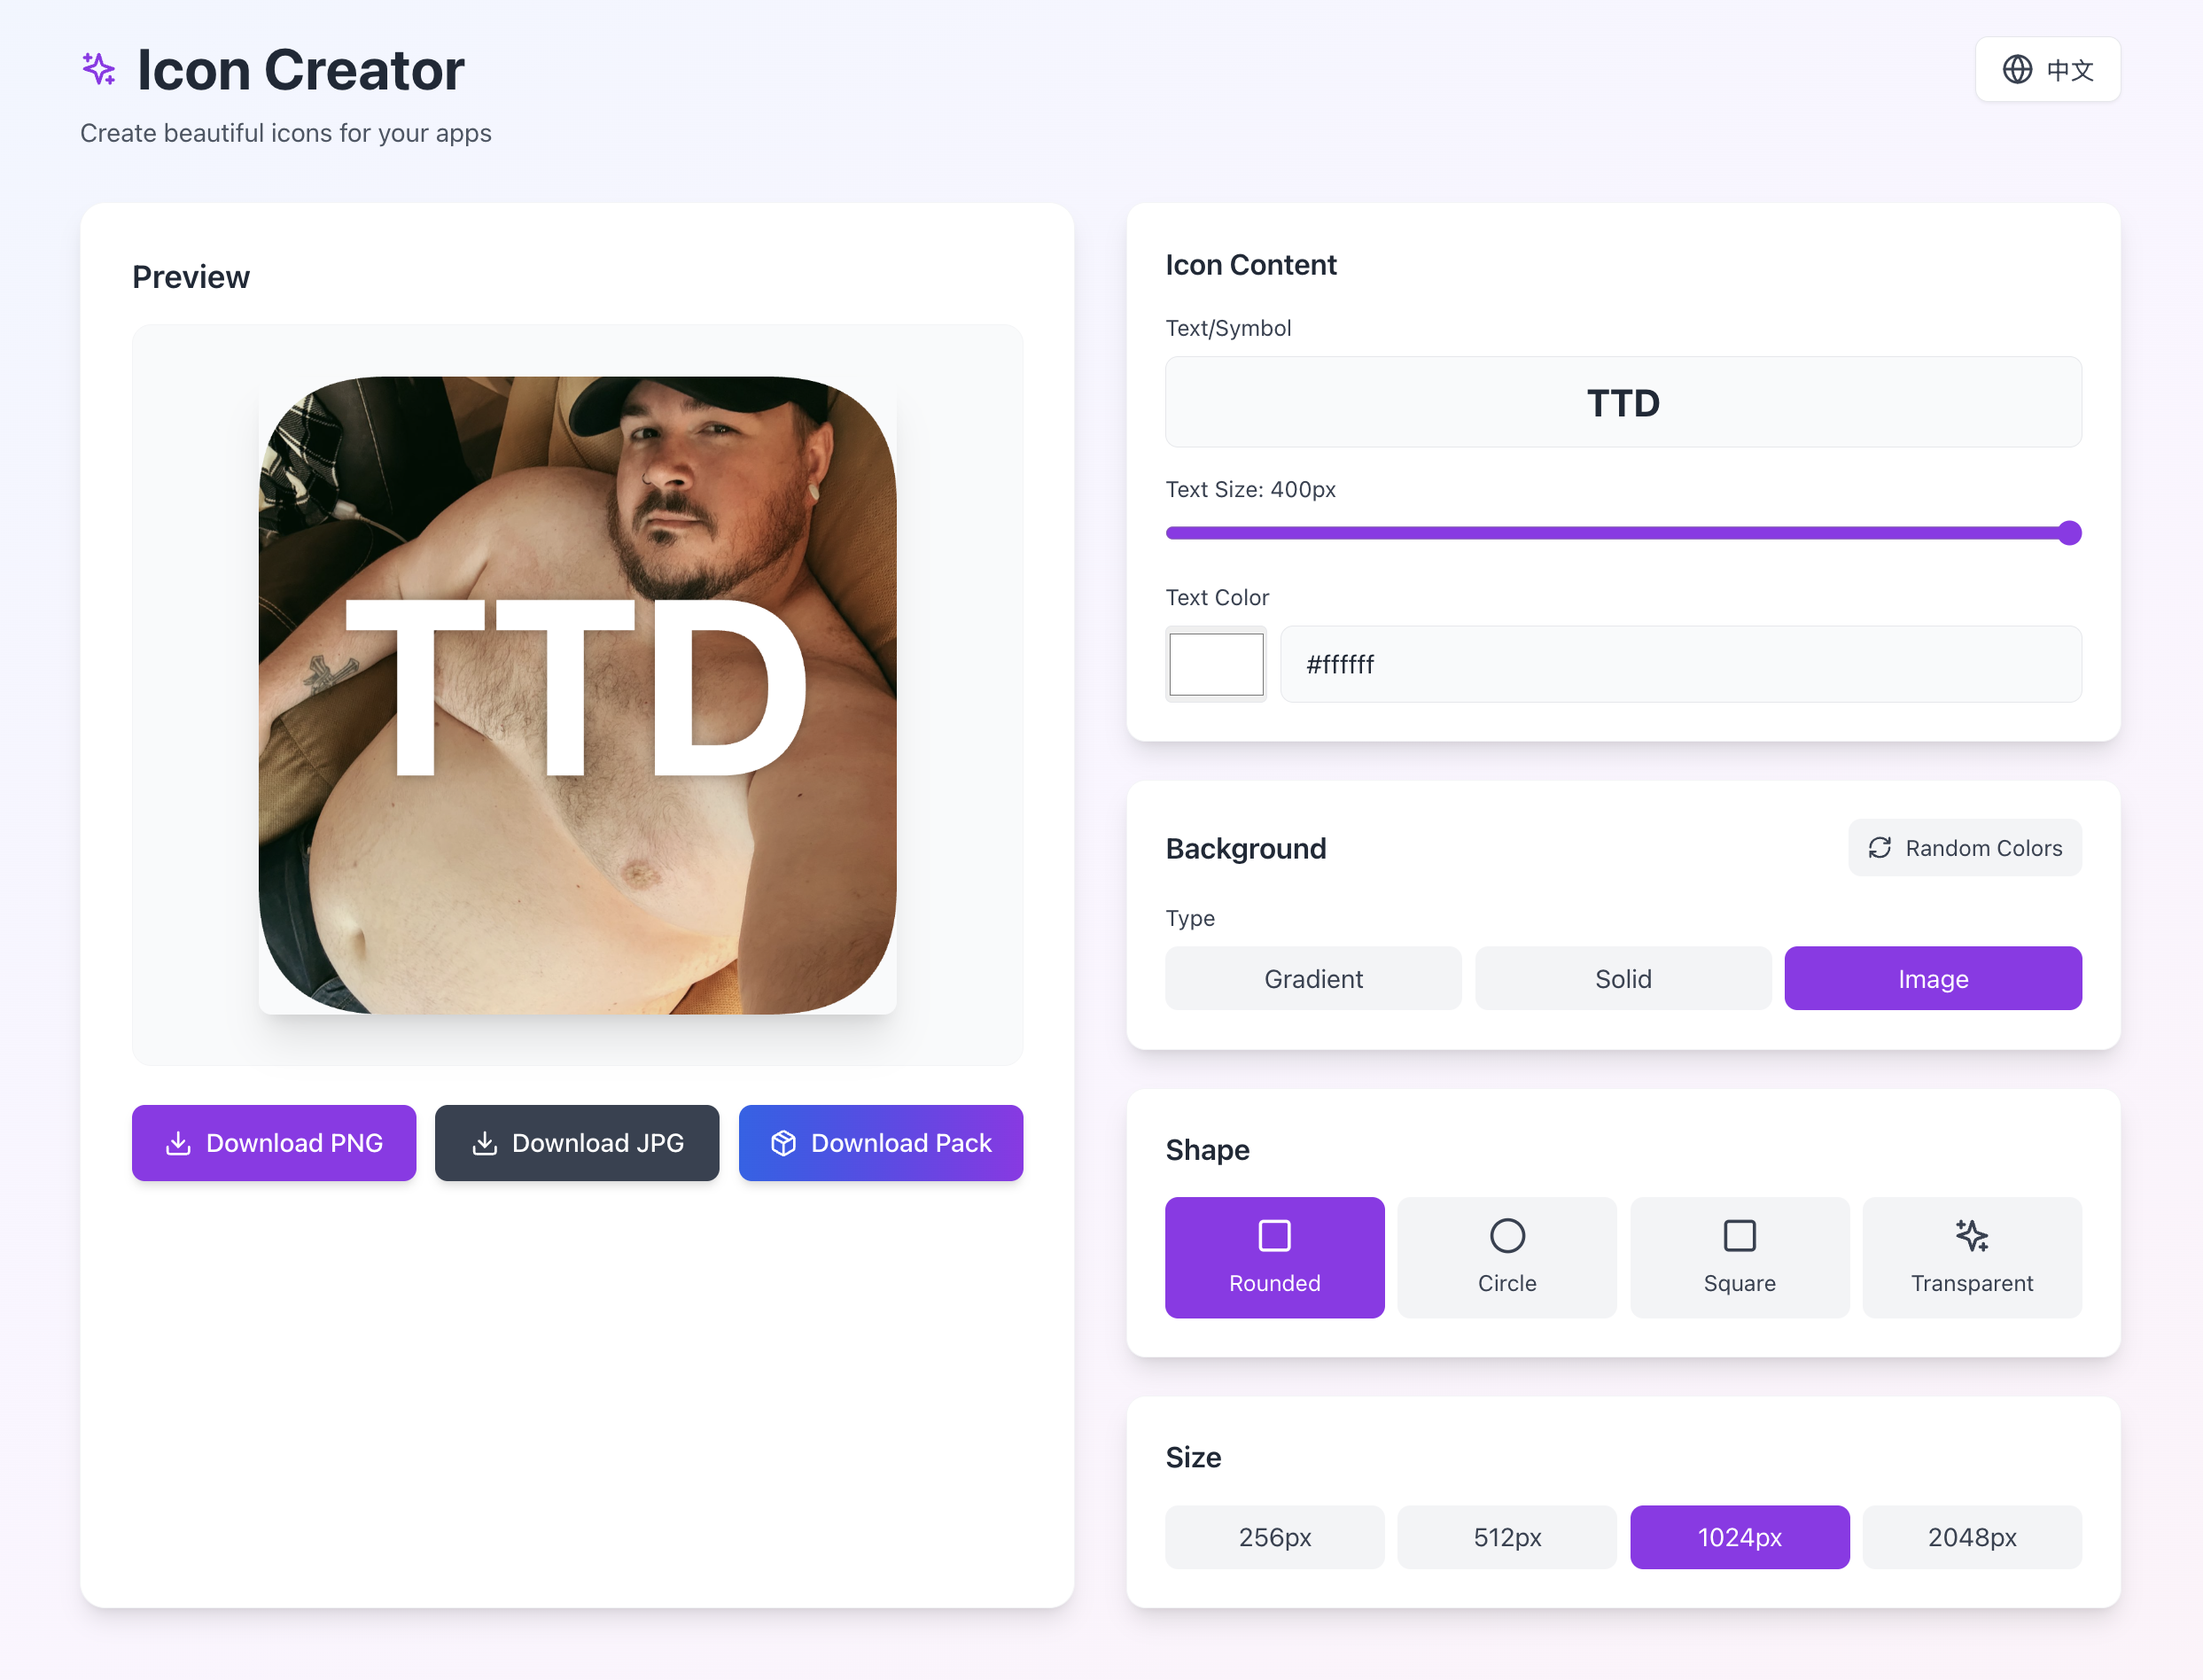
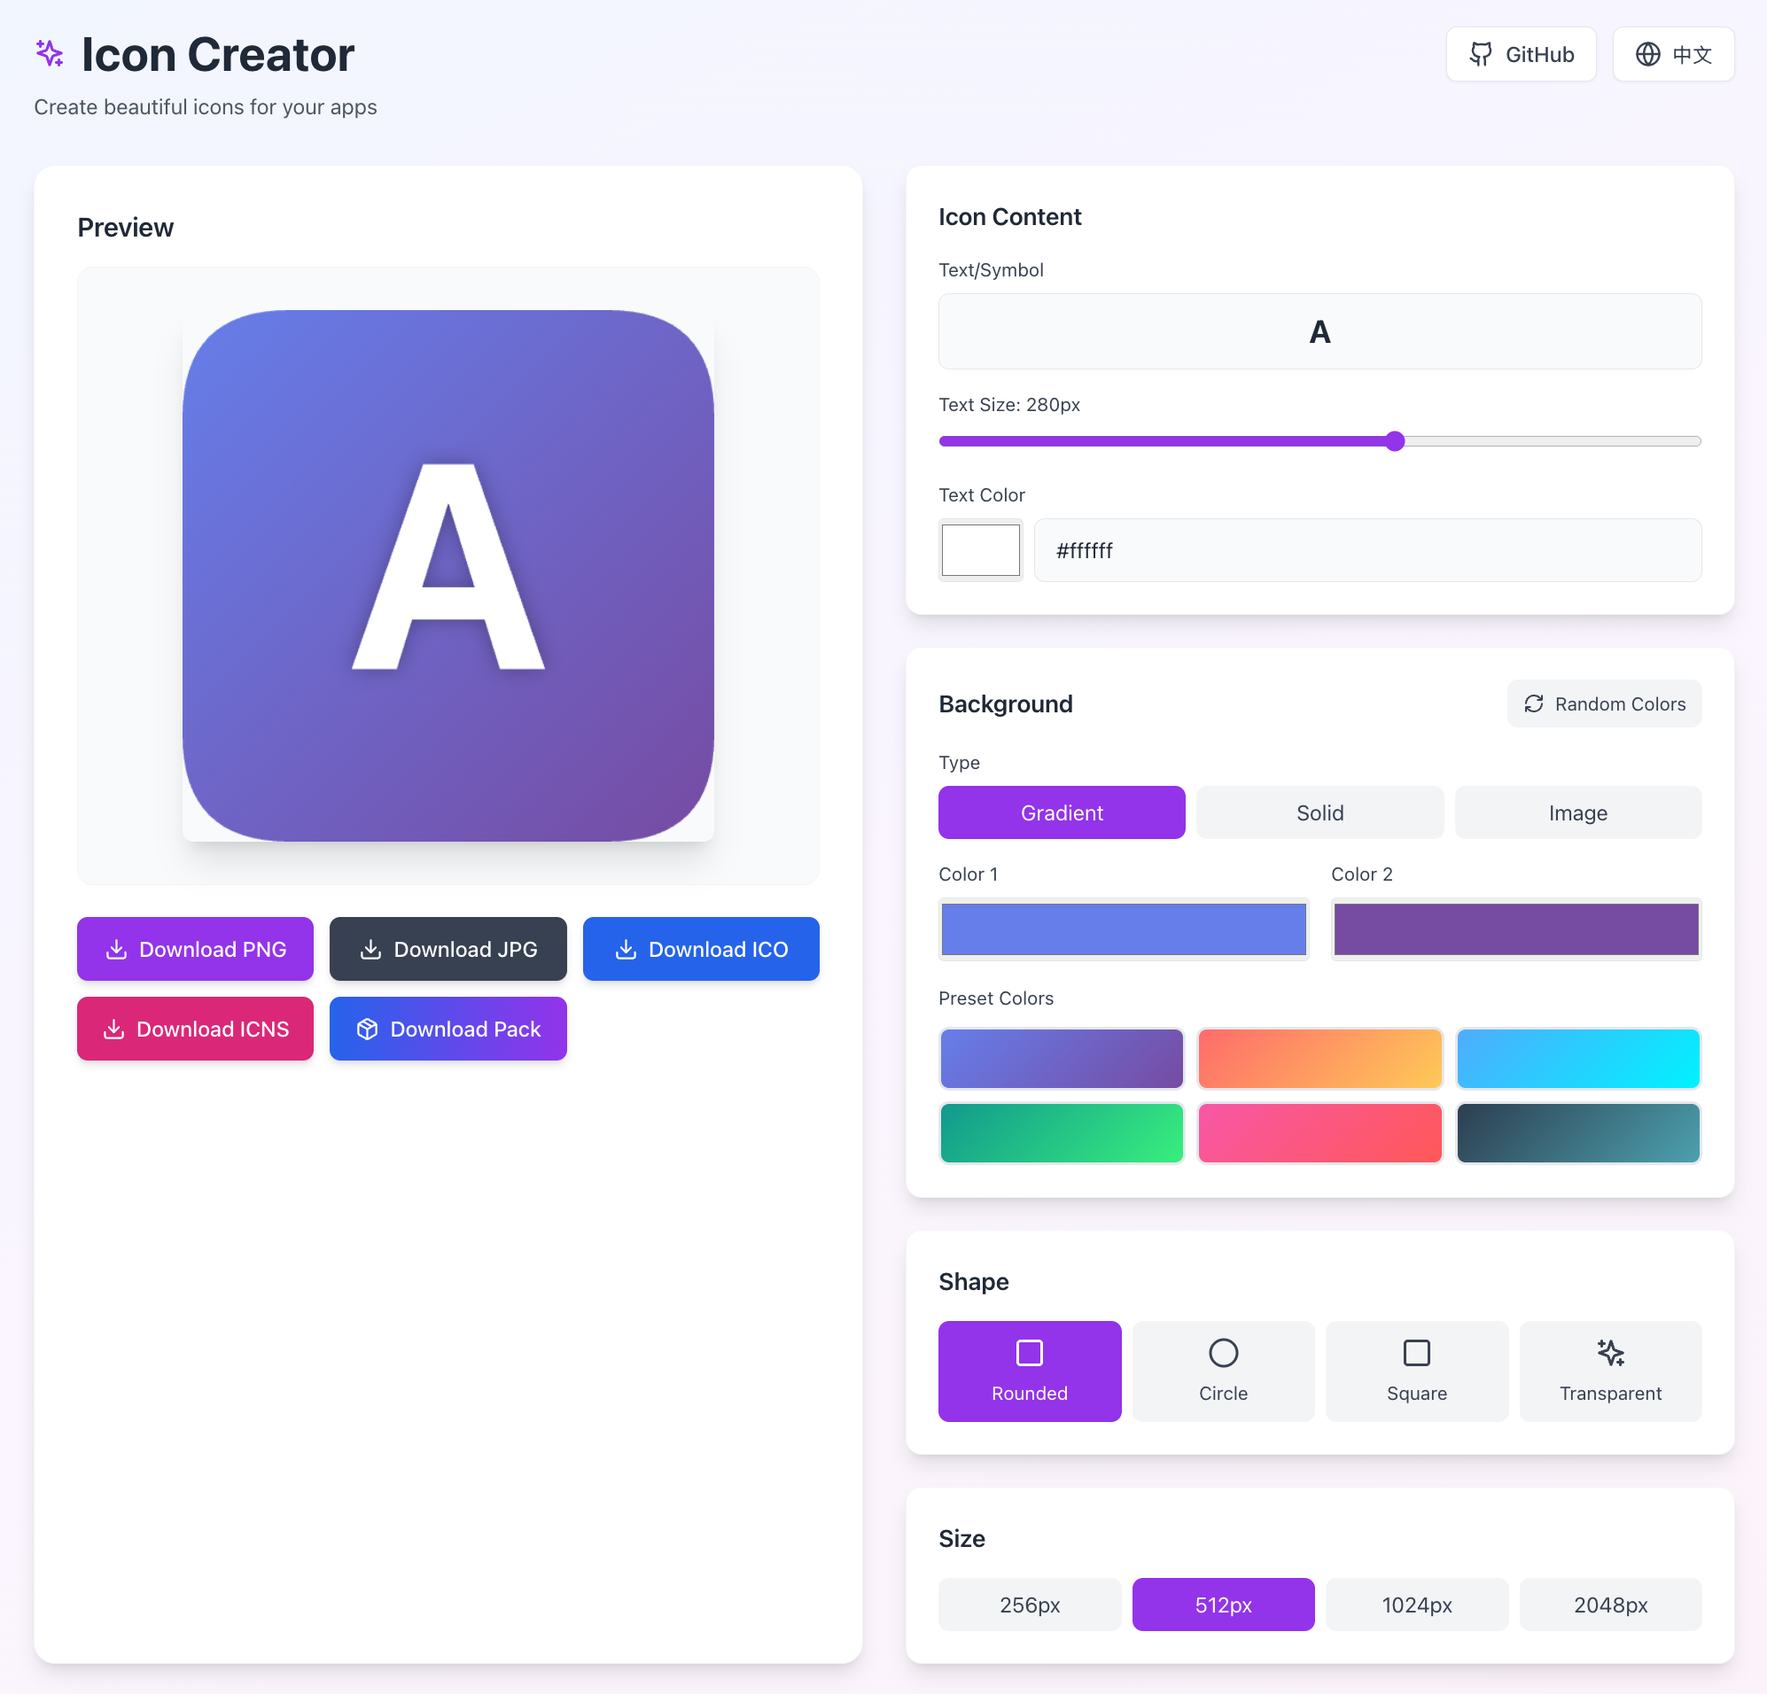
feat: Add GitHub project link

diff --git a/src/App.jsx b/src/App.jsx
@@ -1,5 +1,5 @@
 import React, { useState, useRef, useEffect } from 'react';
-import { Download, Square, Circle, Sparkles, RefreshCw, Package, Globe } from 'lucide-react';
+import { Download, Square, Circle, Sparkles, RefreshCw, Package, Globe, Github } from 'lucide-react';
 
 export default function IconCreator() {
   const canvasRef = useRef(null);
@@ -117,7 +117,7 @@ export default function IconCreator() {
         const img = new Image();
         img.onload = () => {
           setBgImage(img);
-          setConfig({...config, bgType: 'image'});
+          setConfig({ ...config, bgType: 'image' });
         };
         img.src = event.target.result;
       };
@@ -128,10 +128,10 @@ export default function IconCreator() {
   const drawIcon = () => {
     const canvas = canvasRef.current;
     if (!canvas) return;
-    
+
     const ctx = canvas.getContext('2d');
     const size = config.size;
-    
+
     canvas.width = size;
     canvas.height = size;
 
@@ -194,17 +194,17 @@ export default function IconCreator() {
     ctx.textBaseline = 'middle';
     ctx.fillStyle = config.textColor;
     ctx.font = `bold ${config.fontSize}px -apple-system, BlinkMacSystemFont, "Segoe UI", sans-serif`;
-    
+
     ctx.shadowBlur = config.shadowBlur;
     ctx.shadowColor = config.shadowColor;
-    
+
     ctx.fillText(config.text, size / 2, size / 2);
   };
 
   const downloadIcon = (format = 'png') => {
     const canvas = canvasRef.current;
     if (!canvas) return;
-    
+
     canvas.toBlob((blob) => {
       if (!blob) return;
       const url = URL.createObjectURL(blob);
@@ -287,7 +287,7 @@ export default function IconCreator() {
 
       const buffer = await blob.arrayBuffer();
       const length = 8 + buffer.byteLength;
-      
+
       const blockHeader = new ArrayBuffer(8);
       const headerView = new DataView(blockHeader);
       for (let i = 0; i < 4; i++) {
@@ -350,7 +350,7 @@ export default function IconCreator() {
     return new Promise((resolve) => {
       const tempCanvas = document.createElement('canvas');
       const ctx = tempCanvas.getContext('2d');
-      
+
       tempCanvas.width = size;
       tempCanvas.height = size;
 
@@ -408,11 +408,11 @@ export default function IconCreator() {
       ctx.textBaseline = 'middle';
       ctx.fillStyle = config.textColor;
       ctx.font = `bold ${fontSize}px -apple-system, BlinkMacSystemFont, "Segoe UI", sans-serif`;
-      
+
       const shadowBlur = (size / config.size) * config.shadowBlur;
       ctx.shadowBlur = shadowBlur;
       ctx.shadowColor = config.shadowColor;
-      
+
       ctx.fillText(config.text, size / 2, size / 2);
 
       tempCanvas.toBlob((blob) => {
@@ -424,14 +424,14 @@ export default function IconCreator() {
   const downloadIconPack = async () => {
     const sizes = [16, 48, 128];
     const JSZip = window.JSZip;
-    
+
     if (!JSZip) {
       alert('Loading compression library, please try again...');
       return;
     }
 
     const zip = new JSZip();
-    
+
     for (const size of sizes) {
       const blob = await generateIconAtSize(size);
       zip.file(`icon${size}.png`, blob);
@@ -468,13 +468,24 @@ export default function IconCreator() {
             </h1>
             <p className="text-gray-600">{t.subtitle}</p>
           </div>
-          <button
-            onClick={() => setLang(lang === 'zh' ? 'en' : 'zh')}
-            className="flex items-center gap-2 bg-white hover:bg-gray-50 px-4 py-2 rounded-lg shadow-sm border border-gray-200 transition text-gray-700"
-          >
-            <Globe size={20} />
-            {lang === 'zh' ? 'EN' : '中文'}
-          </button>
+          <div className="flex items-center gap-3">
+            <a
+              href="https://github.com/i0Ek3/icon-creator"
+              target="_blank"
+              rel="noopener noreferrer"
+              className="flex items-center gap-2 bg-white hover:bg-gray-50 px-4 py-2 rounded-lg shadow-sm border border-gray-200 transition text-gray-700 font-medium"
+            >
+              <Github size={20} />
+              <span className="hidden sm:inline">GitHub</span>
+            </a>
+            <button
+              onClick={() => setLang(lang === 'zh' ? 'en' : 'zh')}
+              className="flex items-center gap-2 bg-white hover:bg-gray-50 px-4 py-2 rounded-lg shadow-sm border border-gray-200 transition text-gray-700"
+            >
+              <Globe size={20} />
+              {lang === 'zh' ? 'EN' : '中文'}
+            </button>
+          </div>
         </header>
 
         <div className="grid lg:grid-cols-2 gap-8">
@@ -488,7 +499,7 @@ export default function IconCreator() {
                 style={{ width: '400px', height: '400px' }}
               />
             </div>
-            
+
             <div className="mt-6 grid grid-cols-3 gap-3">
               <button
                 onClick={() => downloadIcon('png')}
@@ -545,12 +556,12 @@ export default function IconCreator() {
                   <input
                     type="text"
                     value={config.text}
-                    onChange={(e) => setConfig({...config, text: e.target.value.slice(0, 3)})}
+                    onChange={(e) => setConfig({ ...config, text: e.target.value.slice(0, 3) })}
                     className="w-full bg-gray-50 border border-gray-200 rounded-lg px-4 py-3 text-2xl text-center font-bold text-gray-800 focus:outline-none focus:ring-2 focus:ring-purple-500"
                     maxLength={3}
                   />
                 </div>
-                
+
                 <div>
                   <label className="block text-sm mb-2 text-gray-700">{t.textSize}: {config.fontSize}px</label>
                   <input
@@ -558,7 +569,7 @@ export default function IconCreator() {
                     min="100"
                     max="400"
                     value={config.fontSize}
-                    onChange={(e) => setConfig({...config, fontSize: parseInt(e.target.value)})}
+                    onChange={(e) => setConfig({ ...config, fontSize: parseInt(e.target.value) })}
                     className="w-full accent-purple-600"
                   />
                 </div>
@@ -569,13 +580,13 @@ export default function IconCreator() {
                     <input
                       type="color"
                       value={config.textColor}
-                      onChange={(e) => setConfig({...config, textColor: e.target.value})}
+                      onChange={(e) => setConfig({ ...config, textColor: e.target.value })}
                       className="w-16 h-12 rounded cursor-pointer border border-gray-200"
                     />
                     <input
                       type="text"
                       value={config.textColor}
-                      onChange={(e) => setConfig({...config, textColor: e.target.value})}
+                      onChange={(e) => setConfig({ ...config, textColor: e.target.value })}
                       className="flex-1 bg-gray-50 border border-gray-200 rounded-lg px-4 py-2 text-gray-800 focus:outline-none focus:ring-2 focus:ring-purple-500"
                     />
                   </div>
@@ -595,32 +606,29 @@ export default function IconCreator() {
                   {t.randomColors}
                 </button>
               </div>
-              
+
               <div className="space-y-4">
                 <div>
                   <label className="block text-sm mb-2 text-gray-700">{t.bgType}</label>
                   <div className="grid grid-cols-3 gap-2">
                     <button
-                      onClick={() => setConfig({...config, bgType: 'gradient'})}
-                      className={`px-4 py-2 rounded-lg transition ${
-                        config.bgType === 'gradient' ? 'bg-purple-600 text-white' : 'bg-gray-100 hover:bg-gray-200 text-gray-700'
-                      }`}
+                      onClick={() => setConfig({ ...config, bgType: 'gradient' })}
+                      className={`px-4 py-2 rounded-lg transition ${config.bgType === 'gradient' ? 'bg-purple-600 text-white' : 'bg-gray-100 hover:bg-gray-200 text-gray-700'
+                        }`}
                     >
                       {t.gradient}
                     </button>
                     <button
-                      onClick={() => setConfig({...config, bgType: 'solid'})}
-                      className={`px-4 py-2 rounded-lg transition ${
-                        config.bgType === 'solid' ? 'bg-purple-600 text-white' : 'bg-gray-100 hover:bg-gray-200 text-gray-700'
-                      }`}
+                      onClick={() => setConfig({ ...config, bgType: 'solid' })}
+                      className={`px-4 py-2 rounded-lg transition ${config.bgType === 'solid' ? 'bg-purple-600 text-white' : 'bg-gray-100 hover:bg-gray-200 text-gray-700'
+                        }`}
                     >
                       {t.solid}
                     </button>
                     <button
                       onClick={() => fileInputRef.current?.click()}
-                      className={`px-4 py-2 rounded-lg transition ${
-                        config.bgType === 'image' ? 'bg-purple-600 text-white' : 'bg-gray-100 hover:bg-gray-200 text-gray-700'
-                      }`}
+                      className={`px-4 py-2 rounded-lg transition ${config.bgType === 'image' ? 'bg-purple-600 text-white' : 'bg-gray-100 hover:bg-gray-200 text-gray-700'
+                        }`}
                     >
                       {t.image}
                     </button>
@@ -642,7 +650,7 @@ export default function IconCreator() {
                         <input
                           type="color"
                           value={config.bgColor1}
-                          onChange={(e) => setConfig({...config, bgColor1: e.target.value})}
+                          onChange={(e) => setConfig({ ...config, bgColor1: e.target.value })}
                           className="w-full h-12 rounded cursor-pointer border border-gray-200"
                         />
                       </div>
@@ -652,7 +660,7 @@ export default function IconCreator() {
                           <input
                             type="color"
                             value={config.bgColor2}
-                            onChange={(e) => setConfig({...config, bgColor2: e.target.value})}
+                            onChange={(e) => setConfig({ ...config, bgColor2: e.target.value })}
                             className="w-full h-12 rounded cursor-pointer border border-gray-200"
                           />
                         </div>
@@ -696,10 +704,9 @@ export default function IconCreator() {
                 ].map(({ value, label, icon: Icon }) => (
                   <button
                     key={value}
-                    onClick={() => setConfig({...config, shape: value})}
-                    className={`flex flex-col items-center gap-2 px-4 py-3 rounded-lg transition ${
-                      config.shape === value ? 'bg-purple-600 text-white' : 'bg-gray-100 hover:bg-gray-200 text-gray-700'
-                    }`}
+                    onClick={() => setConfig({ ...config, shape: value })}
+                    className={`flex flex-col items-center gap-2 px-4 py-3 rounded-lg transition ${config.shape === value ? 'bg-purple-600 text-white' : 'bg-gray-100 hover:bg-gray-200 text-gray-700'
+                      }`}
                   >
                     <Icon size={24} />
                     <span className="text-sm">{label}</span>
@@ -715,10 +722,9 @@ export default function IconCreator() {
                 {[256, 512, 1024, 2048].map(size => (
                   <button
                     key={size}
-                    onClick={() => setConfig({...config, size})}
-                    className={`px-4 py-2 rounded-lg transition ${
-                      config.size === size ? 'bg-purple-600 text-white' : 'bg-gray-100 hover:bg-gray-200 text-gray-700'
-                    }`}
+                    onClick={() => setConfig({ ...config, size })}
+                    className={`px-4 py-2 rounded-lg transition ${config.size === size ? 'bg-purple-600 text-white' : 'bg-gray-100 hover:bg-gray-200 text-gray-700'
+                      }`}
                   >
                     {size}px
                   </button>
